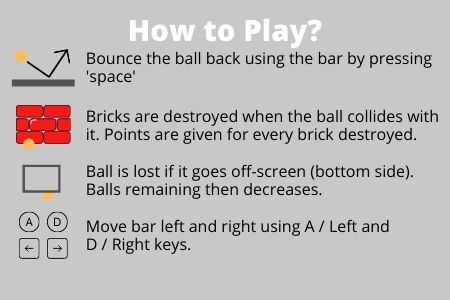
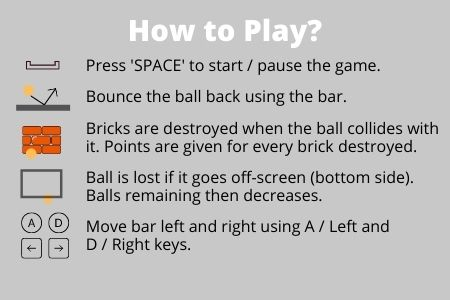
Amended Tutorial Screen

Changed region(s): [[0.0, 0.15, 0.9956, 0.87]]

diff --git a/src/Main/MainWindow/GameFrame.java b/src/Main/MainWindow/GameFrame.java
@@ -54,6 +54,8 @@ public class GameFrame extends JFrame implements WindowFocusListener {
         this.pack();
         this.autoLocate();
         this.setVisible(true);
+        // So user cannot resize the frame
+        this.setResizable(false);
     }
 
     public void enableGameBoard(){
@@ -62,7 +64,7 @@ public class GameFrame extends JFrame implements WindowFocusListener {
         this.add(gameBoard, BorderLayout.CENTER);
         this.setUndecorated(false);
         initialize();
-        /*to avoid problems with graphics focus controller is added here*/
+        /* to avoid problems with graphics focus controller is added here */
         this.addWindowFocusListener(this);
     }
 

diff --git a/src/Main/Ball/Ball.java b/src/Main/Ball/Ball.java
@@ -43,6 +43,7 @@ abstract public class Ball {
         ballFace = makeBall(center, radiusA, radiusB);
         this.border = border;
         this.inner  = inner;
+
         // Initialise speed
         speedX = 0;
         speedY = 0;

diff --git a/README.md b/README.md
@@ -24,6 +24,6 @@ Added comments
 
 # Key Additions:
 Ability to move player's bar left and right using arrow keys,
-Tutorial button and instructions screen, 
+Tutorial button, back button, and tutorial screen, 
 See live score,
-Changed colors of elements to improve user interface
+Inserted background images and changed colors of elements to improve user interface
